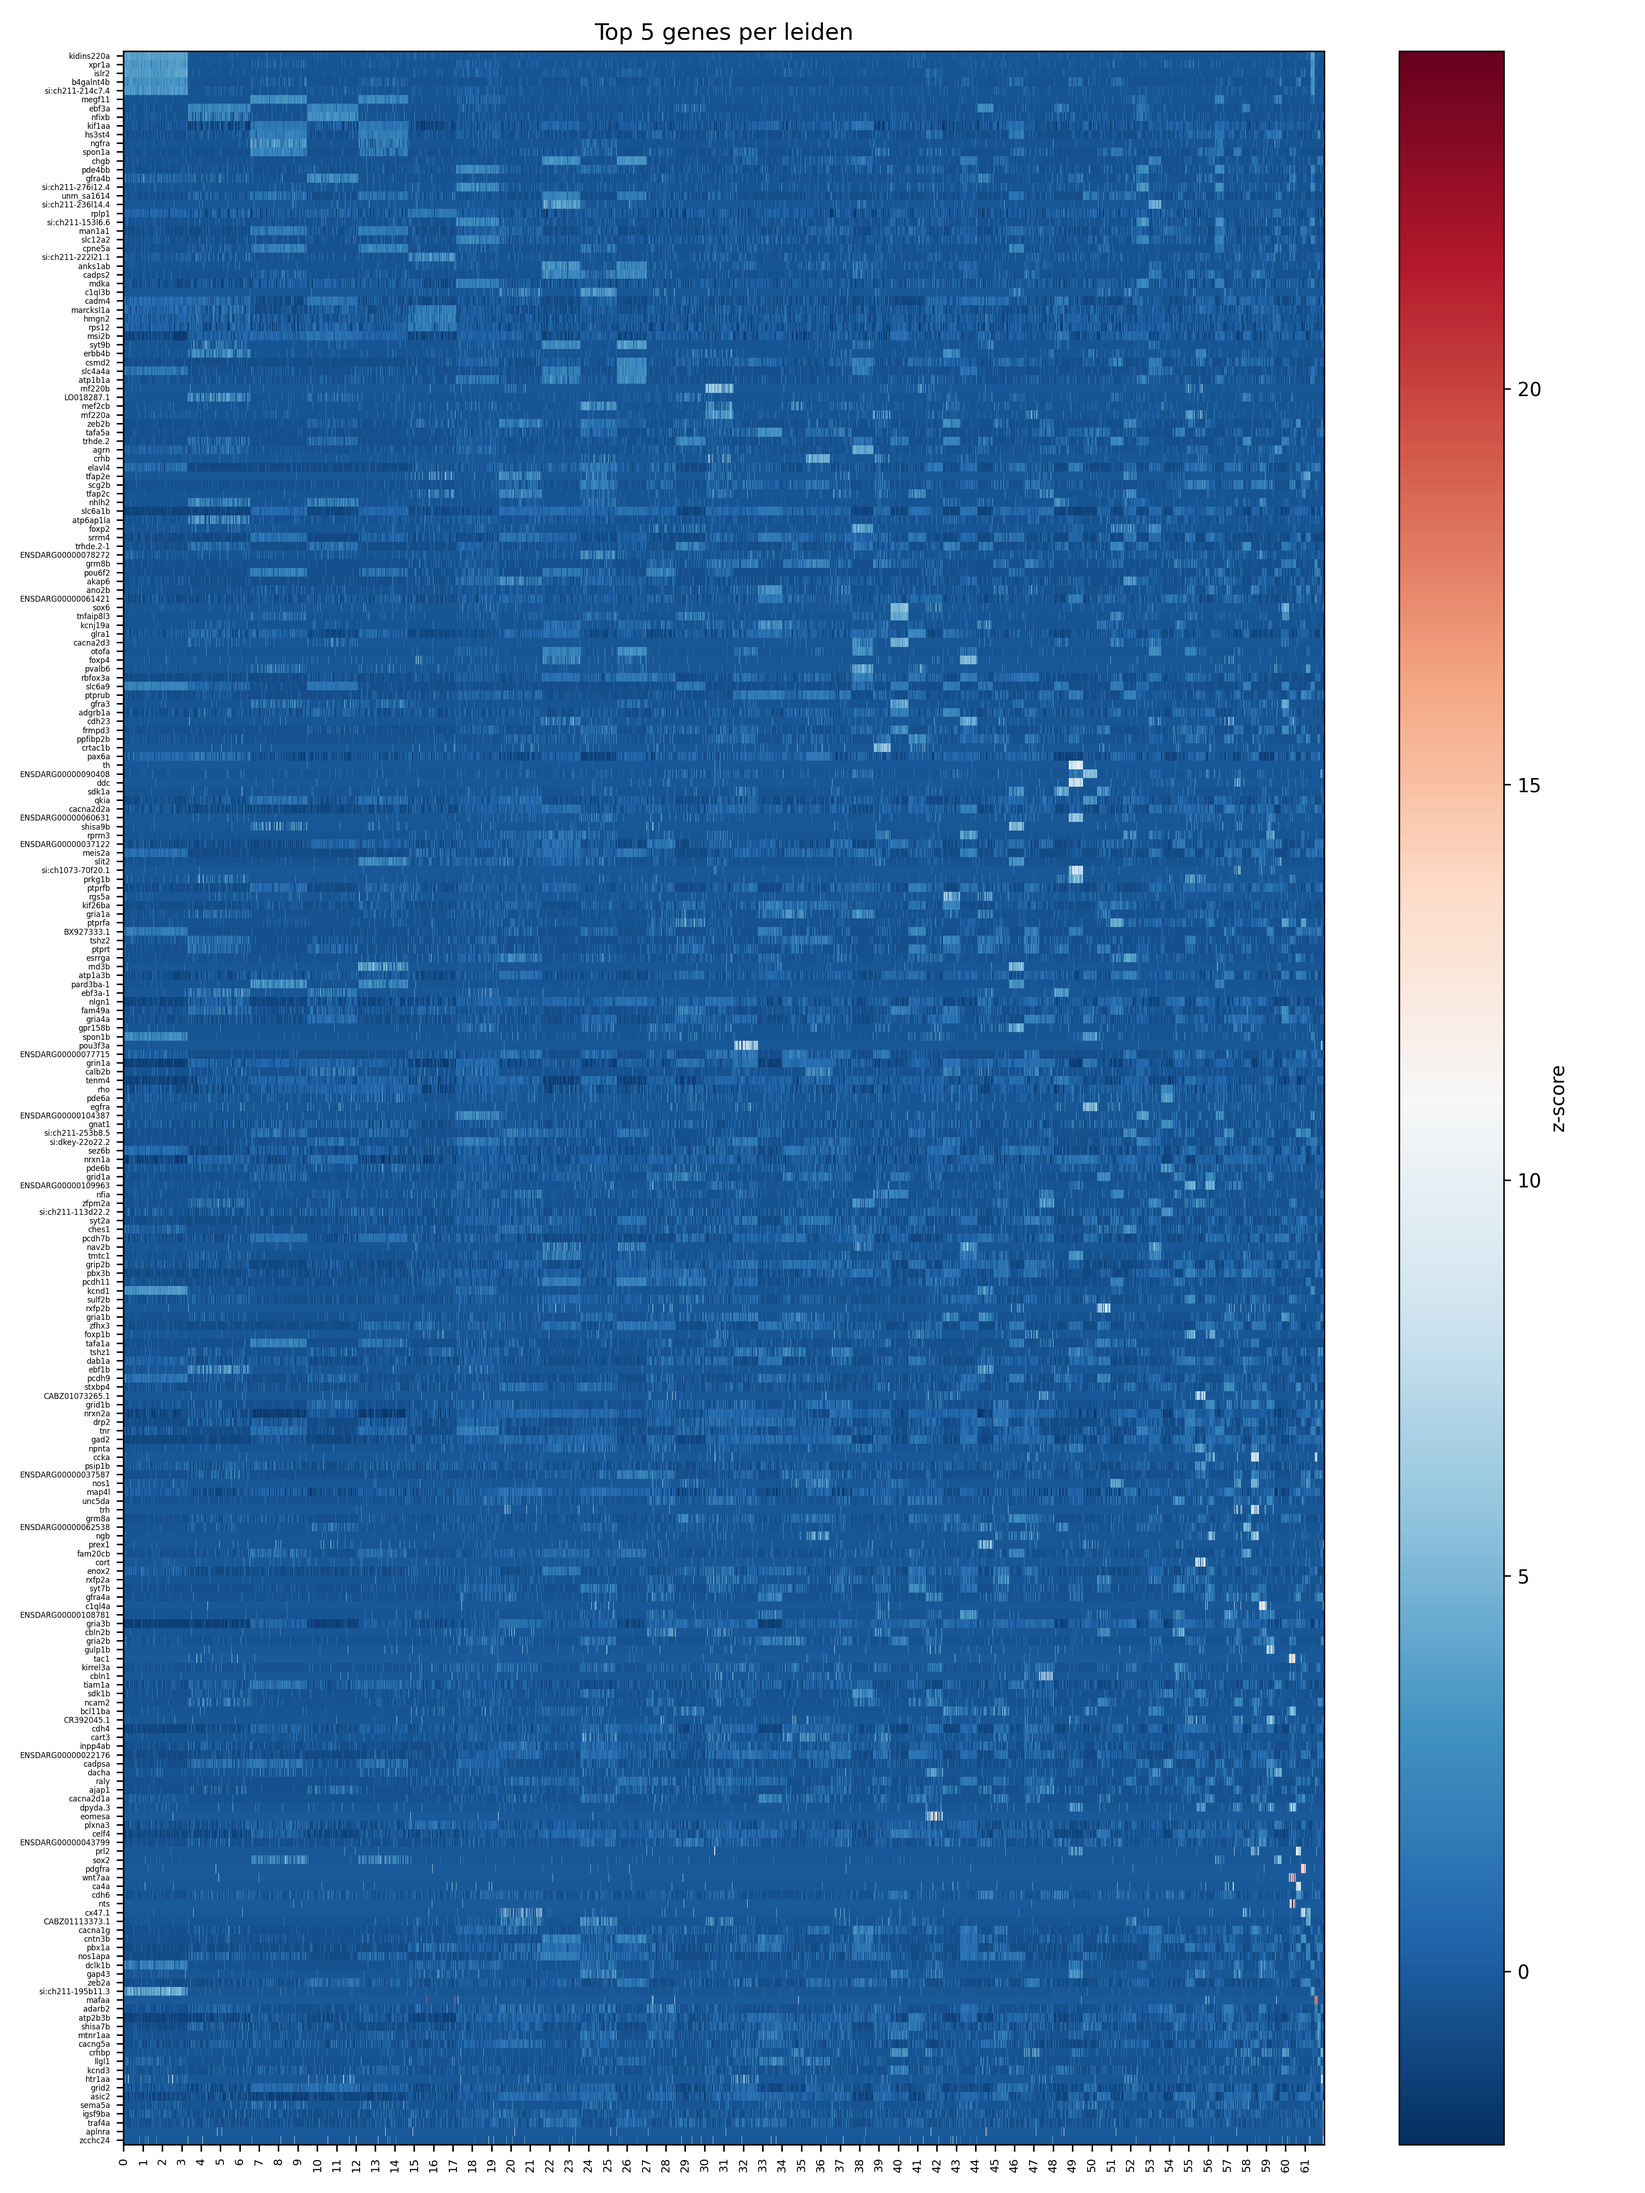
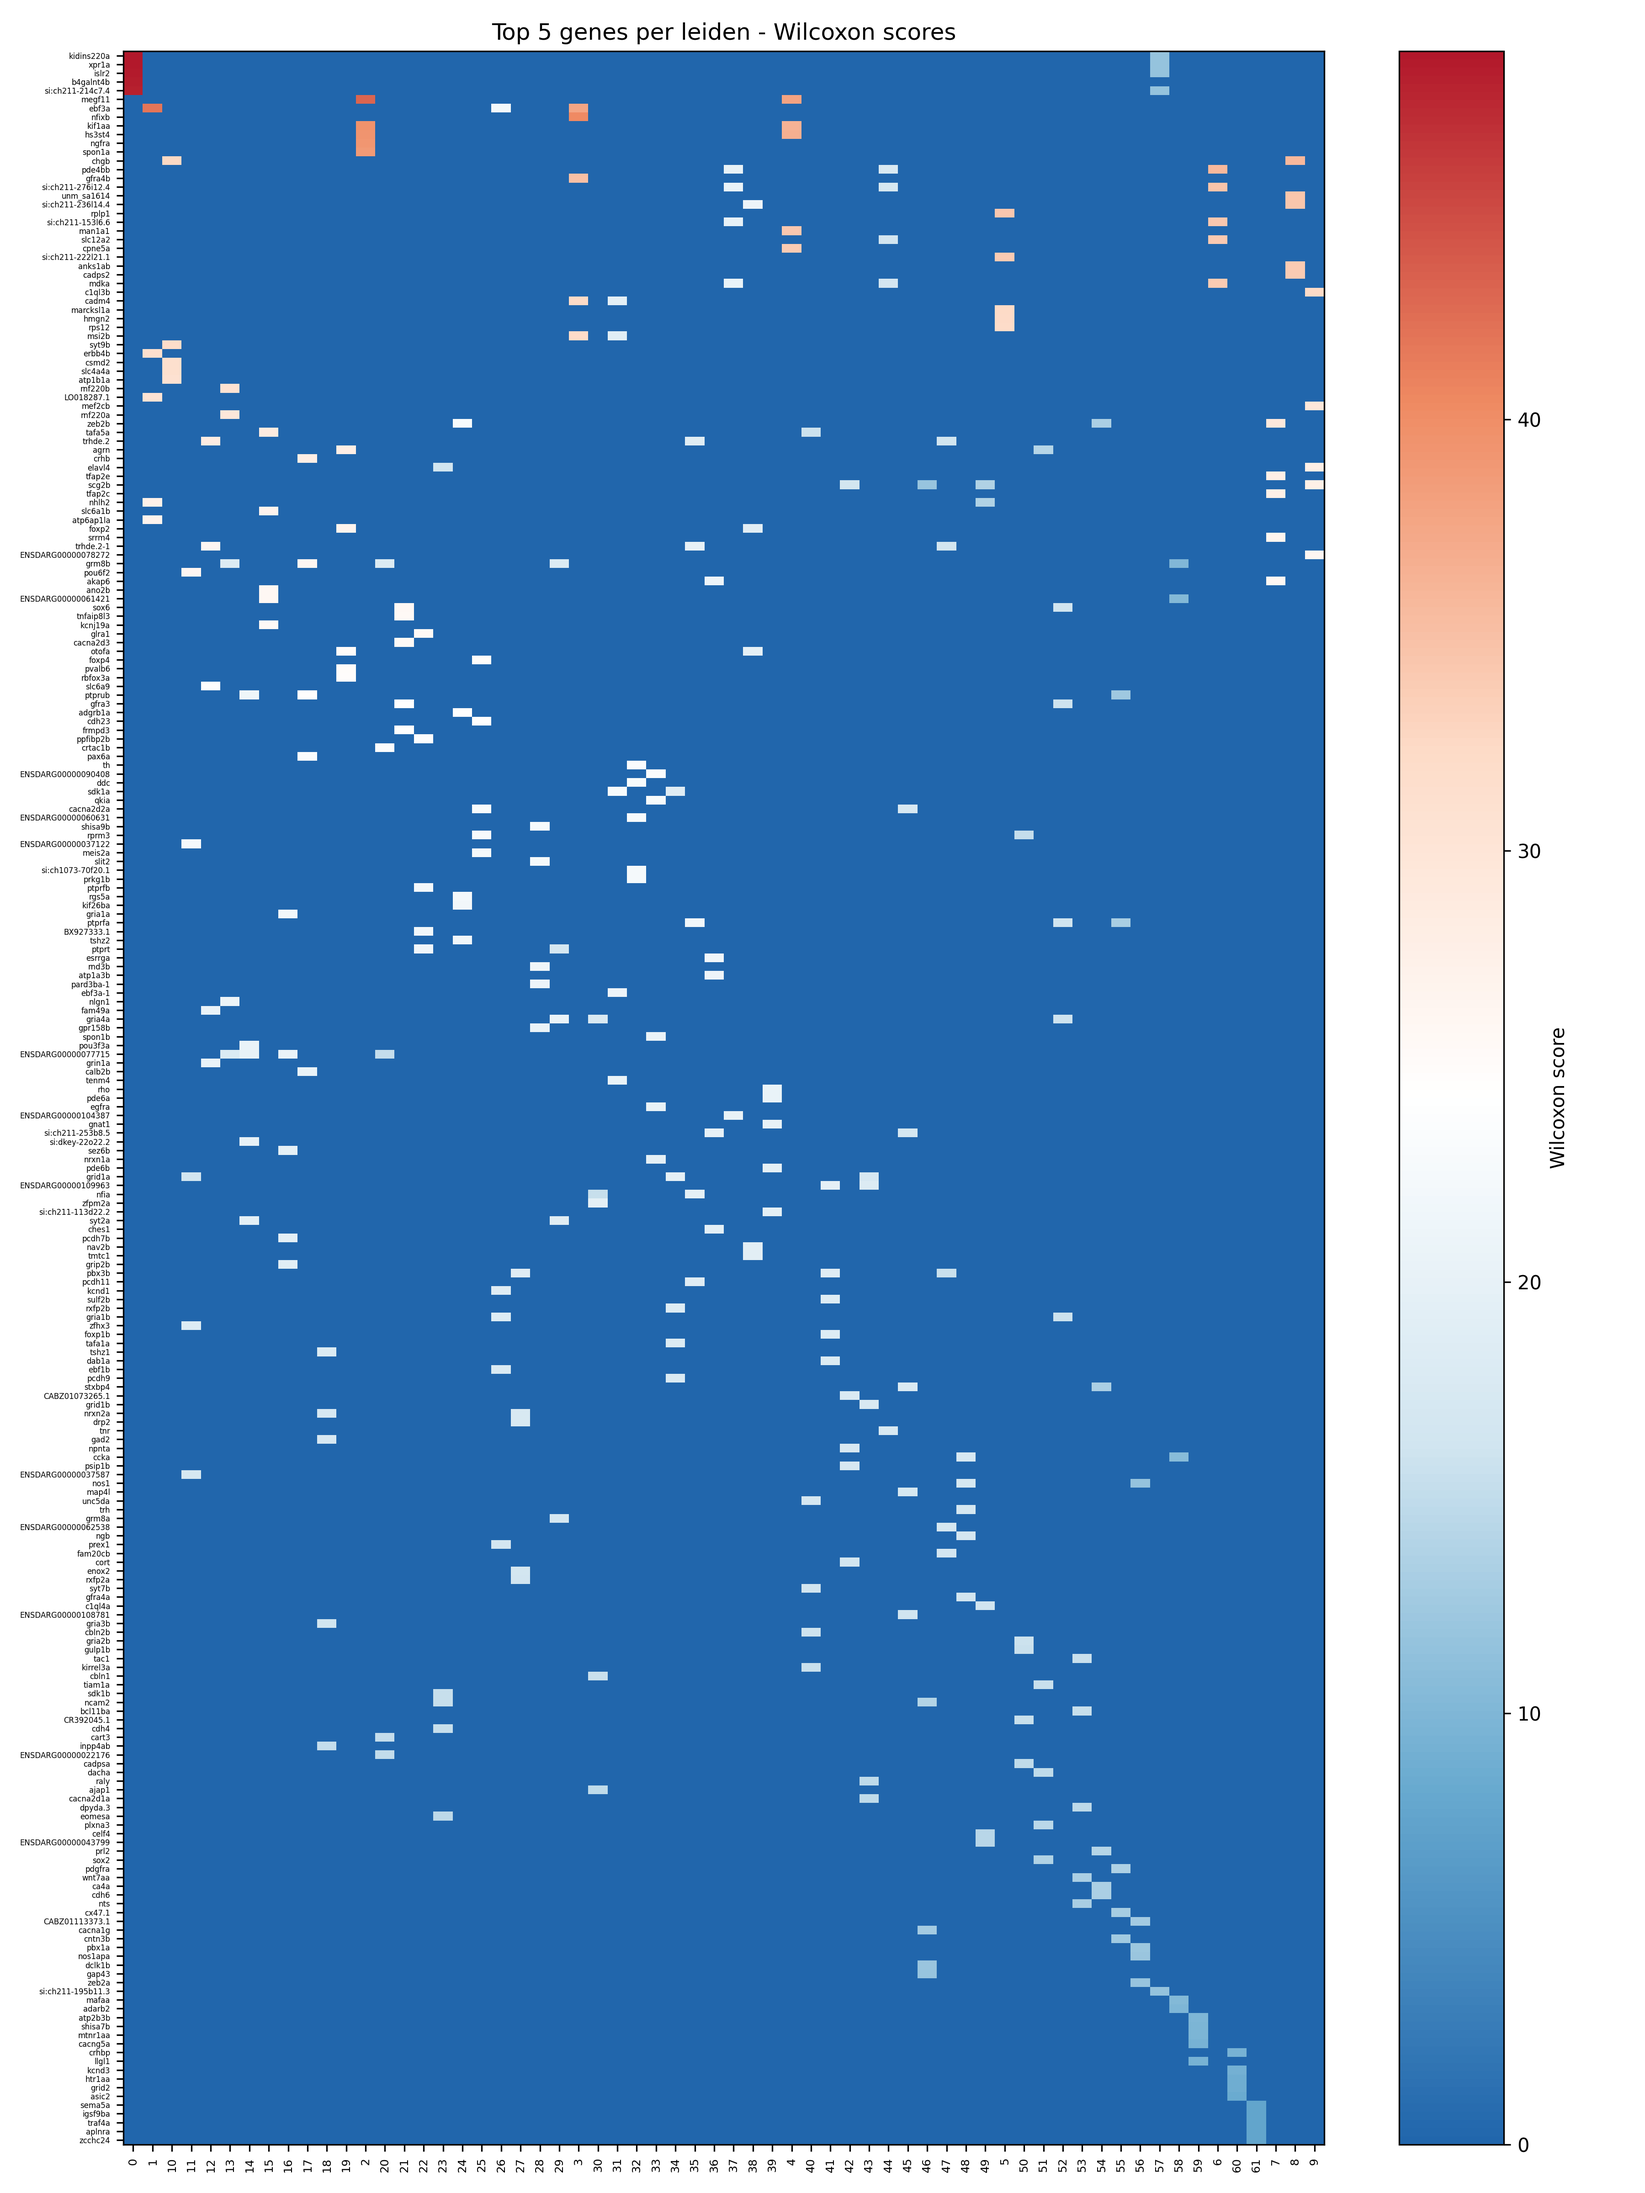
Update heatmaps - by wilcoxon score

diff --git a/dge_heatmap.py b/dge_heatmap.py
@@ -5,116 +5,103 @@ import scanpy as sc
 import numpy as np
 import pandas as pd
 import matplotlib.pyplot as plt
+from matplotlib.colors import LinearSegmentedColormap
 
 def main():
-    parser = argparse.ArgumentParser(description="Plot heatmap from DGE h5ad")
+    parser = argparse.ArgumentParser(description="Plot Wilcoxon scores heatmap from DGE h5ad")
     parser.add_argument("-i", "--ih5ad", required=True, help="Input DGE .h5ad (from dge.py)")
     parser.add_argument("-g", "--groupby", required=True, help="Same groupby used in dge.py")
     parser.add_argument("-n", "--topn", type=int, default=20, help="Top N genes per group")
-    parser.add_argument("--heatmap", default="heatmap.png", help="Output PNG filename")
+    parser.add_argument("--heatmap", default="wilcoxon_heatmap.png", help="Output PNG filename")
     args = parser.parse_args()
-
+    
     groupby = args.groupby
     topn = args.topn
-
+    
     # Load the h5ad containing rank_genes_groups
     adata = sc.read_h5ad(args.ih5ad)
-
+    
+    # Extract DGE results from Scanpy
     if "rank_genes_groups" not in adata.uns:
         raise RuntimeError("rank_genes_groups missing. Run dge.py first.")
-
+    
     r = adata.uns["rank_genes_groups"]
-    scanpy_groups = r["names"].dtype.names  # original scanpy groups
-
-    # ------------------------
-    # Build dataframe of DE results
-    # ------------------------
+    de_groups = r["names"].dtype.names
+    
+    # Build dataframe of Wilcoxon scores
     rows = []
-    for g in scanpy_groups:
+    for g in de_groups:
         for i in range(len(r["names"][g])):
             rows.append({
                 "group": g,
                 "gene": r["names"][g][i],
                 "score": r["scores"][g][i],
             })
-
     df = pd.DataFrame(rows)
-
-    # Top N per group
+    
+    # Pick topN per group by score
     top_df = (
         df.sort_values("score", ascending=False)
-          .groupby("group")
-          .head(topn)
+        .groupby("group")
+        .head(topn)
     )
-
-    genes = top_df["gene"].unique().tolist()
-
-    # ------------------------
-    # Extract expression
-    # ------------------------
-    if adata.raw is not None:
-        X = adata.raw[:, genes].X
-    else:
-        X = adata[:, genes].X
-
-    if hasattr(X, "toarray"):
-        X = X.toarray()
-
-    # z-score across cells
-    X = (X - X.mean(axis=0)) / (X.std(axis=0) + 1e-9)
-
-    df_expr = pd.DataFrame(X, columns=genes)
-    df_expr[groupby] = adata.obs[groupby].values
-
-    # ------------------------
-    # Custom sorting for celltype
-    # ------------------------
+    
+    # Create a pivot table: genes x groups with Wilcoxon scores
+    heatmap_df = top_df.pivot_table(
+        index='gene',
+        columns='group',
+        values='score',
+        aggfunc='first'
+    )
+    
+    # Fill NaN with 0 (genes not significant for that group)
+    heatmap_df = heatmap_df.fillna(0)
+    
+    # Reorder columns by manual order if celltype
     if groupby == "celltype":
-        custom_order = (
-            'MG', 'MGPC', 'PR precursors', 'Rod', 'Cones',
-            'BC', 'AC', 'HC', 'RGC', 'Microglia_ImmuneCells','RPE','Endothelial', 'Pericytes','Oligocytes','Melanocytes'
-        )
-        # keep only those present in data
-        present_order = [x for x in custom_order if x in df_expr[groupby].unique()]
-        df_expr[groupby] = pd.Categorical(df_expr[groupby], categories=present_order, ordered=True)
-        df_expr = df_expr.sort_values(groupby)
-        ordered_groups = present_order
-    else:
-        df_expr = df_expr.sort_values(groupby)
-        ordered_groups = df_expr[groupby].unique().tolist()
-
-    # Extract heatmap matrix
-    heatmap_data = df_expr.drop(columns=[groupby]).to_numpy()
-
-    # ------------------------
+        manual_order = [
+            "MG", "MGPC", "PR precursors", "Rod", "Cones",
+            "BC", "AC", "HC", "RGC",
+            "Microglia_ImmuneCells", "Perycites", "Melanocyte",
+            "Endothelial", "RPE", "Oligodenrocyte"
+        ]
+        # Filter to existing columns
+        manual_order = [g for g in manual_order if g in heatmap_df.columns]
+        heatmap_df = heatmap_df[manual_order]
+    
+    # Sort genes by max score across groups
+    heatmap_df = heatmap_df.loc[heatmap_df.max(axis=1).sort_values(ascending=False).index]
+    
+    # Create the EXACT scale from your R code (dark blue to light blue, white, light red to dark red)
+    colors = [
+        '#2166AC',  # Dark blue
+        '#67A9CF',  # Medium blue  
+        '#D1E5F0',  # Light blue
+        '#FFFFFF',  # White
+        '#FDDBC7',  # Light red
+        '#EF8A62',  # Medium red
+        '#B2182B'   # Dark red
+    ]
+    
+    custom_cmap = LinearSegmentedColormap.from_list('custom_scale', colors, N=256)
+    
     # Plot heatmap
-    # ------------------------
     plt.figure(figsize=(12, 16))
-    plt.imshow(heatmap_data.T, aspect='auto', cmap='RdBu_r', interpolation='nearest')
-    plt.colorbar(label='z-score')
-
-    # gene names along y-axis
-    plt.yticks(range(len(genes)), genes, fontsize=4)
-
-    # Correct x-axis labeling: one tick per group
-    group_cell_counts = df_expr[groupby].value_counts()[ordered_groups].tolist()
-    group_tick_positions = np.cumsum([0] + group_cell_counts[:-1])
-
-    plt.xticks(
-        ticks=group_tick_positions,
-        labels=ordered_groups,
-        rotation=90,
-        fontsize=6
-    )
-
-    plt.title(f"Top {topn} genes per {groupby}")
+    plt.imshow(heatmap_df.values, aspect='auto', cmap=custom_cmap, interpolation='nearest')
+    plt.colorbar(label='Wilcoxon score')
+    
+    # y-axis = genes
+    plt.yticks(range(len(heatmap_df)), heatmap_df.index, fontsize=4)
+    
+    # x-axis = groups
+    plt.xticks(range(len(heatmap_df.columns)), heatmap_df.columns, rotation=90, fontsize=6)
+    
+    plt.title(f"Top {topn} genes per {groupby} - Wilcoxon scores")
     plt.tight_layout()
     plt.savefig(args.heatmap, dpi=300)
     plt.close()
-
-    print(f"Saved heatmap → {args.heatmap}")
-
+    
+    print(f"Saved Wilcoxon scores heatmap → {args.heatmap}")
 
 if __name__ == "__main__":
     main()
-

diff --git a/README.md b/README.md
@@ -448,7 +448,10 @@ python pearson_heatmap.py annotated_clustered_corrected_doubletRemoved_Zebrafish
 
 [Download all DGE here](https://docs.google.com/spreadsheets/d/1yGYvD2I4IOZQUterO7G_7qOr6lOub_5T3ggRZiGe8nY/edit?usp=sharing)
 
-![Zebrafish DGE heatmap](figures/zebrafish_dge_heatmap.png?v=2)
+
+### Heatmap by Wilcoxon score 
+
+![Zebrafish DGE heatmap](figures/zebrafish_dge_heatmap.png?v=3)
 
 ## Differential gene expression per subset 
 
@@ -457,7 +460,8 @@ python pearson_heatmap.py annotated_clustered_corrected_doubletRemoved_Zebrafish
 [Download AC DGE here](https://drive.google.com/file/d/1jLt8RPZID9oWCOiP2PMgdF_SiDhL2ai-/view?usp=sharing)
 
 
-![AC heatmap](figures/AC_dge_heatmap.png)
+### Heatmap bu Wilcoxon score
+![AC heatmap](figures/AC_dge_heatmap.png?v=2)
 
 
 # :rotating_light: Debugging section
